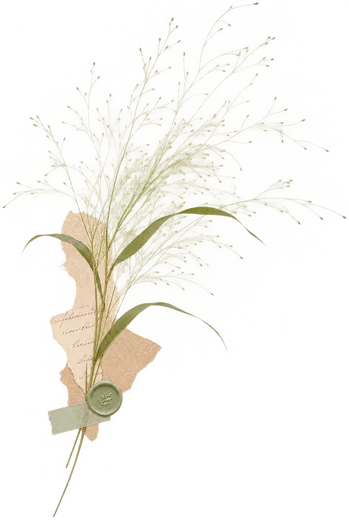
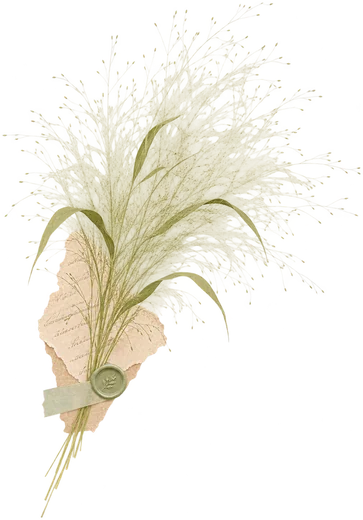
파니쿰 그림 다시 교체(더 풍성한 버전)
Claude-Session: https://claude.ai/code/session_01WCPfkfgKmSLJFuJHW1Sc4d

diff --git a/preview/index.html b/preview/index.html
@@ -518,7 +518,7 @@ const favIndexKeys=()=>[...new Set([...FAV].map(favKey))];
 const SEASON_SITE_URL='';
 // 등락: 화살표 + 색 + 숫자 (색만으로 뜻을 전하지 않음)
 const dlt=x=>x==null||!isFinite(x)?'<span class="d flat">—</span>':`<span class="d ${sg(x)}">${x>0?'▲':x<0?'▼':'–'} ${Math.abs(x*100).toFixed(1)}%</span>`;
-const IMG_V='202611021205'; // 그림을 바꾸면 이 값을 바꿔서 휴대폰에 남은 옛 그림 대신 새 그림을 받게 합니다
+const IMG_V='202611021210'; // 그림을 바꾸면 이 값을 바꿔서 휴대폰에 남은 옛 그림 대신 새 그림을 받게 합니다
 const STK=(location.pathname.includes('/preview/')?'../':'')+'img/';
 // 꽃 그림: img/flowers/<원자료 품목명>.webp (파일 이름 = 원자료 품목명)
 const FLOWER_IMG=new Set(["과꽃", "안시리움", "클레마티스", "맨드라미", "호접란", "공작초", "국화_대국", "금꿩의다리", "고사리", "장미", "국화", "카네이션", "안개", "거베라", "리시안사스", "백합", "수국", "알스트메리아", "칼라", "스타티스", "유칼립투스", "메리골드", "스톡크", "홍가시", "튜립", "라넌큘러스", "프리지아", "델피니움", "코스모스", "작약", "해바라기", "다알리아", "스위트피", "금어초", "아이리스", "글라디올러스", "왁스플라워", "솔리다고", "하이페리콤", "루스커스", "몬스테라", "쿠루쿠마", "석죽", "백일홍", "옥시페탈륨", "천일홍", "베로니카", "스카비오사", "용담", "브바르디아", "후록스", "부들레야", "아미초", "아스그레피아스", "층꽃", "등골나무", "멜라루카", "비부리움", "심포리카르포스", "엽란", "쥐똥나무", "캐모마일", "파니쿰", "편백", "도라지꽃", "루드베키아", "사루비아", "아스파라거스", "헬리옵시스", "꽃고추", "버들나무", "개미취", "연밥", "조팝", "핑크뮬리", "극락조화", "글로리오사", "냉이초", "산더소니아", "설유화", "소철", "솔리다스터", "아네모네", "영춘화", "오니소갈룸", "폴리안테스", "셀륨", "시레네", "여우얼굴", "풍선초", "피토스포륨", "광나무(여정목)", "꽈리", "스모그트리", "알피니아", "조", "아스틸베", "돈나무", "마가렛", "금사철", "상사화", "에키네시아", "에키놉스", "작살나무", "연꽃", "남천", "아카시아", "헬레늄", "아게라덤", "억새풀", "캄파눌라", "마타리", "디디스커스", "리아트리스", "부추꽃", "수선", "케로네", "히야신스", "심비디움", "덴파레", "맥문동", "부들", "부프리움", "수수", "유포로비아", "토마토", "까치밥", "꽃양배추", "데이지", "라이스플라워", "속새", "트리플륨", "명자란", "천조초", "이끼시아", "다정금", "백야", "싸리", "아가판서스", "아그로템마", "에렌지움", "유도화", "종려", "치자", "팜파스", "소재", "절화", "절지", "열매", "허브", "그라스", "호엽란", "기린초", "노무라", "잎안개", "보리사초", "불노초", "신지매", "각구도라", "탑사철", "사철나무", "니겔라"]);

diff --git a/index.html b/index.html
@@ -518,7 +518,7 @@ const favIndexKeys=()=>[...new Set([...FAV].map(favKey))];
 const SEASON_SITE_URL='';
 // 등락: 화살표 + 색 + 숫자 (색만으로 뜻을 전하지 않음)
 const dlt=x=>x==null||!isFinite(x)?'<span class="d flat">—</span>':`<span class="d ${sg(x)}">${x>0?'▲':x<0?'▼':'–'} ${Math.abs(x*100).toFixed(1)}%</span>`;
-const IMG_V='202611021205'; // 그림을 바꾸면 이 값을 바꿔서 휴대폰에 남은 옛 그림 대신 새 그림을 받게 합니다
+const IMG_V='202611021210'; // 그림을 바꾸면 이 값을 바꿔서 휴대폰에 남은 옛 그림 대신 새 그림을 받게 합니다
 const STK=(location.pathname.includes('/preview/')?'':'')+'img/';
 // 꽃 그림: img/flowers/<원자료 품목명>.webp (파일 이름 = 원자료 품목명)
 const FLOWER_IMG=new Set(["과꽃", "안시리움", "클레마티스", "맨드라미", "호접란", "공작초", "국화_대국", "금꿩의다리", "고사리", "장미", "국화", "카네이션", "안개", "거베라", "리시안사스", "백합", "수국", "알스트메리아", "칼라", "스타티스", "유칼립투스", "메리골드", "스톡크", "홍가시", "튜립", "라넌큘러스", "프리지아", "델피니움", "코스모스", "작약", "해바라기", "다알리아", "스위트피", "금어초", "아이리스", "글라디올러스", "왁스플라워", "솔리다고", "하이페리콤", "루스커스", "몬스테라", "쿠루쿠마", "석죽", "백일홍", "옥시페탈륨", "천일홍", "베로니카", "스카비오사", "용담", "브바르디아", "후록스", "부들레야", "아미초", "아스그레피아스", "층꽃", "등골나무", "멜라루카", "비부리움", "심포리카르포스", "엽란", "쥐똥나무", "캐모마일", "파니쿰", "편백", "도라지꽃", "루드베키아", "사루비아", "아스파라거스", "헬리옵시스", "꽃고추", "버들나무", "개미취", "연밥", "조팝", "핑크뮬리", "극락조화", "글로리오사", "냉이초", "산더소니아", "설유화", "소철", "솔리다스터", "아네모네", "영춘화", "오니소갈룸", "폴리안테스", "셀륨", "시레네", "여우얼굴", "풍선초", "피토스포륨", "광나무(여정목)", "꽈리", "스모그트리", "알피니아", "조", "아스틸베", "돈나무", "마가렛", "금사철", "상사화", "에키네시아", "에키놉스", "작살나무", "연꽃", "남천", "아카시아", "헬레늄", "아게라덤", "억새풀", "캄파눌라", "마타리", "디디스커스", "리아트리스", "부추꽃", "수선", "케로네", "히야신스", "심비디움", "덴파레", "맥문동", "부들", "부프리움", "수수", "유포로비아", "토마토", "까치밥", "꽃양배추", "데이지", "라이스플라워", "속새", "트리플륨", "명자란", "천조초", "이끼시아", "다정금", "백야", "싸리", "아가판서스", "아그로템마", "에렌지움", "유도화", "종려", "치자", "팜파스", "소재", "절화", "절지", "열매", "허브", "그라스", "호엽란", "기린초", "노무라", "잎안개", "보리사초", "불노초", "신지매", "각구도라", "탑사철", "사철나무", "니겔라"]);
